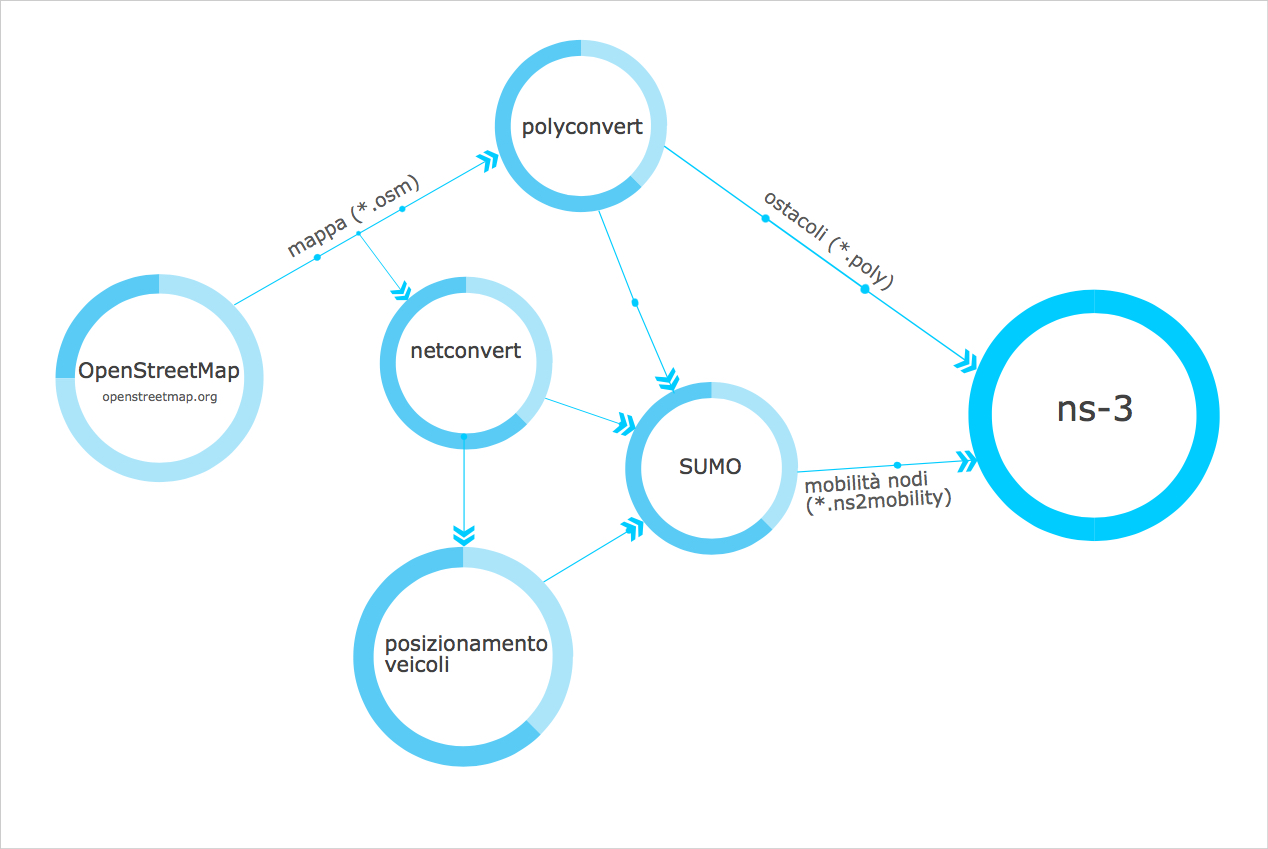
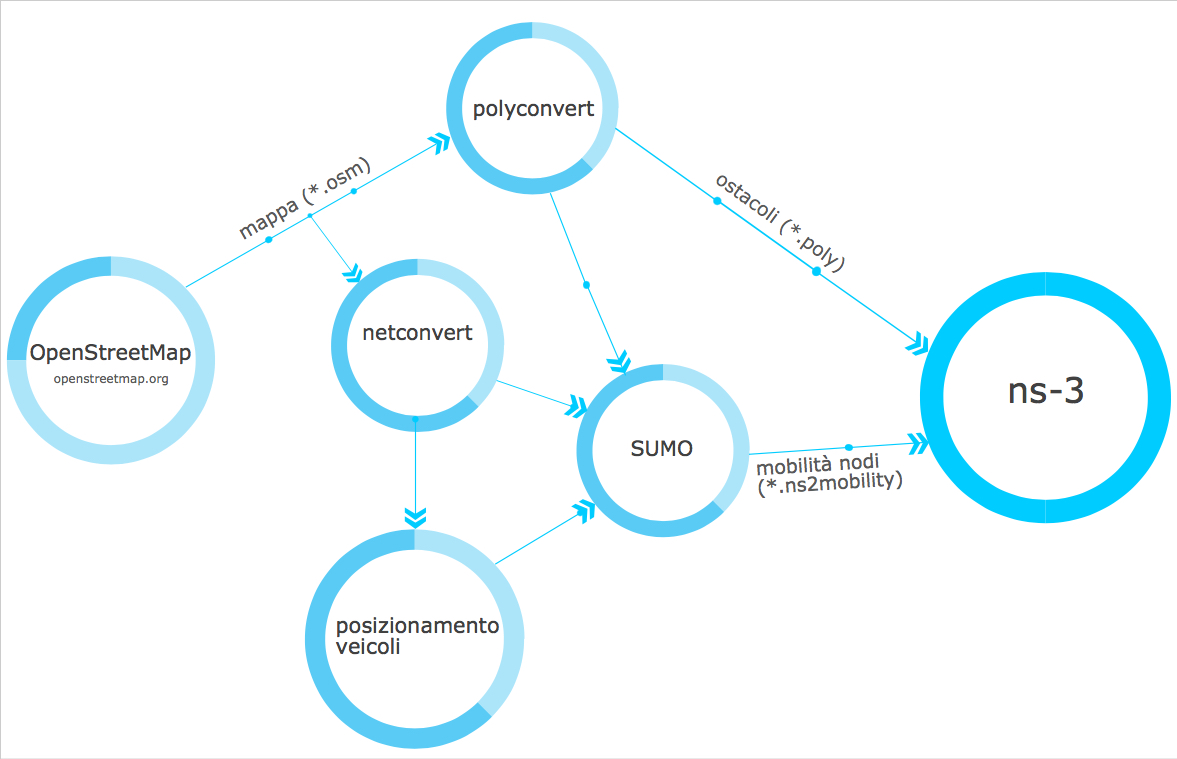
image fix

diff --git a/doc/thesis/chapters/applicativi.tex b/doc/thesis/chapters/applicativi.tex
@@ -38,6 +38,6 @@ Il processo completo è riassunto nella Figura~\ref{fig:generazione-file-sumo}.
 % Generazione figura con: https://www.easel.ly/create?id=https://s3.amazonaws.com/easel.ly/all_easels/3240510/1510073603&key=pri
 \begin{figure}[htbp]
 	\centering
-		\includegraphics[width=\textwidth]{generazione-file-sumo.jpg}
+		\includegraphics[width=.9\textwidth]{generazione-file-sumo.jpg}
 \caption{Procedimento per estrarre le informazioni da OSM e generare i file per la simulazione con ns-3.\label{fig:generazione-file-sumo}}
 \end{figure}
